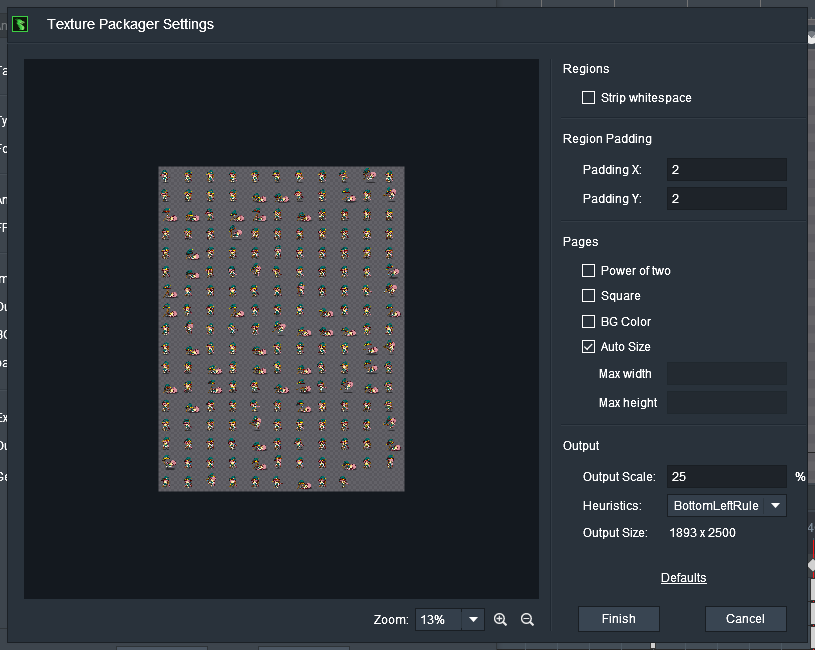
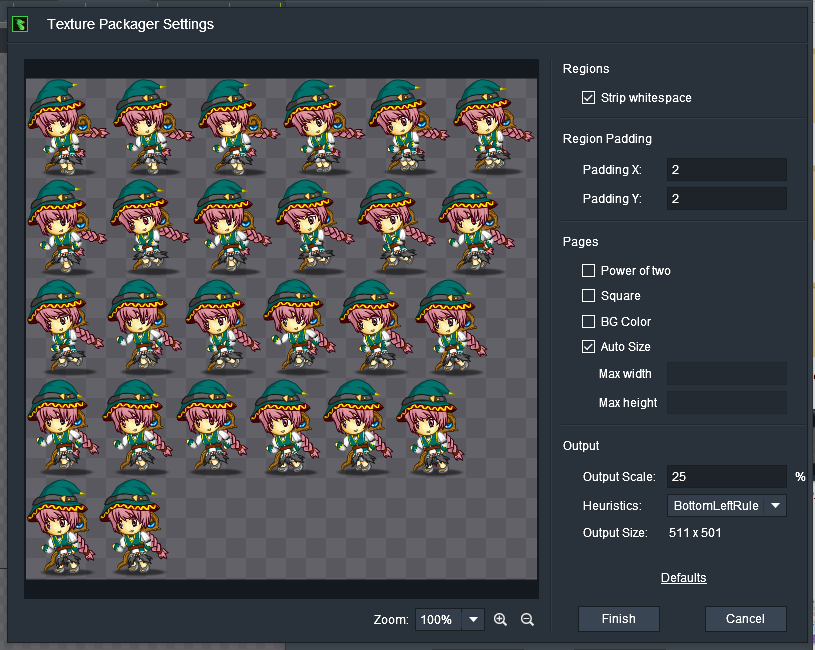
update new anims system (incomplete)

diff --git a/SonOfRobin.Core/Game/Scenes/AnimEditor.cs b/SonOfRobin.Core/Game/Scenes/AnimEditor.cs
@@ -10,6 +10,8 @@ namespace SonOfRobin
 {
     public class AnimEditor : Scene
     {
+        private const float baseScale = 1f; // 0.5f
+
         private readonly SpriteFontBase font;
         private readonly AnimPkg[] animPkgArray;
         private Anim CurrentAnim { get { return this.currentAnimPkg.AllAnimList[this.currentAnimIndex]; } }
@@ -38,23 +40,25 @@ namespace SonOfRobin
         public AnimEditor() : base(inputType: InputTypes.Normal, priority: 1, blocksUpdatesBelow: false, blocksDrawsBelow: false, alwaysUpdates: false, alwaysDraws: false, touchLayout: TouchLayout.Empty, tipsLayout: ControlTips.TipsLayout.Empty)
         {
             this.font = SonOfRobinGame.FontPressStart2P.GetFont(8 * 1);
-            this.pos = new Vector2(80, 80);
+            this.pos = new Vector2(80, 110);
             this.rot = 0f;
-            this.showColRect = true;
+            this.showColRect = false;
             this.showGfxRect = true;
             this.showEffect = false;
             this.outlineThickness = 1;
 
-
-
-
             var animPkgList = new List<AnimPkg> { };
 
             string[] jsonNameArray = new string[] {
-                            "female_mage_tex_test.json",
+                            "female_mage_tex_attack_cropped.json",
+                            "female_mage_tex_damage_cropped.json",
+                            "female_mage_tex_dead_cropped.json",
+                            "female_mage_tex_stand_cropped.json",
+                            "female_mage_tex_walk_cropped.json",
+                            "female_mage_tex_weak_cropped.json",
                         };
 
-            var durationDict = new Dictionary<string, short>
+            var durationDict = new Dictionary<string, int>
                         {
                             { "stand", 3 },
                             { "weak", 3 },
@@ -72,7 +76,7 @@ namespace SonOfRobin
                             { "walk-right", new Vector2(-6, -8) },
             };
 
-            animPkgList.Add(AnimPkg.MakePackageForDragonBonesAnims(pkgName: AnimData.PkgName.DragonBonesTestFemaleMage, colWidth: 50, colHeight: 30, jsonNameArray: jsonNameArray, animSize: 0, scale: 0.5f, baseAnimsFaceRight: false, durationDict: durationDict, nonLoopedAnims: nonLoopedAnims, offsetDict: offsetDict));
+            animPkgList.Add(AnimPkg.MakePackageForDragonBonesAnims(pkgName: AnimData.PkgName.DragonBonesTestFemaleMage, colWidth: 50, colHeight: 30, jsonNameArray: jsonNameArray, animSize: 0, scale: 1.0f, baseAnimsFaceRight: false, durationDict: durationDict, nonLoopedAnims: nonLoopedAnims, offsetDict: offsetDict)); // scale: 0.5f
 
 
 
@@ -126,8 +130,8 @@ namespace SonOfRobin
             this.AssignCurrentAnim();
             this.UpdateRects();
 
-            this.viewParams.ScaleX = 0.5f;
-            this.viewParams.ScaleY = 0.5f;
+            this.viewParams.ScaleX = baseScale;
+            this.viewParams.ScaleY = baseScale;
 
             this.effect = SonOfRobinGame.ContentMgr.Load<Effect>("effects/Border");
         }
@@ -169,8 +173,8 @@ namespace SonOfRobin
             }
             if (Keyboard.IsPressed(Keys.H))
             {
-                this.viewParams.ScaleX = 0.5f;
-                this.viewParams.ScaleY = 0.5f;
+                this.viewParams.ScaleX = baseScale;
+                this.viewParams.ScaleY = baseScale;
             }
 
             bool animPkgIndexChanged = false;

diff --git a/SonOfRobin.Core/Game/_AnimWiP/AnimPkg.cs b/SonOfRobin.Core/Game/_AnimWiP/AnimPkg.cs
@@ -210,7 +210,7 @@ namespace SonOfRobin
             return animPkg;
         }
 
-        public static AnimPkg MakePackageForDragonBonesAnims(AnimData.PkgName pkgName, int colWidth, int colHeight, string[] jsonNameArray, int animSize, float scale, bool baseAnimsFaceRight, Dictionary<string, short> durationDict, string[] nonLoopedAnims, Dictionary<string, Vector2> offsetDict)
+        public static AnimPkg MakePackageForDragonBonesAnims(AnimData.PkgName pkgName, int colWidth, int colHeight, string[] jsonNameArray, int animSize, float scale, bool baseAnimsFaceRight, Dictionary<string, int> durationDict, string[] nonLoopedAnims, Dictionary<string, Vector2> offsetDict)
         {
             AnimPkg animPkg = new(pkgName: pkgName, colWidth: colWidth, colHeight: colHeight);
 
@@ -232,7 +232,7 @@ namespace SonOfRobin
                     int frameNoIndex = underscoreIndex + 1;
 
                     string baseAnimName = name.Substring(0, underscoreIndex);
-                    short duration = durationDict.ContainsKey(baseAnimName) ? durationDict[baseAnimName] : (short)1;
+                    int duration = durationDict.ContainsKey(baseAnimName) ? durationDict[baseAnimName] : 1;
                     int frameNo = Convert.ToInt32(name.Substring(frameNoIndex, name.Length - frameNoIndex));
 
                     int x = (int)animData["x"];
@@ -241,16 +241,24 @@ namespace SonOfRobin
                     int height = (int)animData["height"];
                     int frameX = (int)animData["frameX"];
                     int frameY = (int)animData["frameY"];
+                    int fullWidth = (int)animData["frameWidth"];
+                    int fullHeight = (int)animData["frameHeight"];
 
                     foreach (string direction in new string[] { "right", "left" })
                     {
                         string animNameWithDirection = $"{baseAnimName}-{direction}";
                         if (!animDict.ContainsKey(animNameWithDirection)) animDict[animNameWithDirection] = [];
 
-                        Vector2 gfxOffsetCorrection = new(frameX, frameY);
+                        bool mirrorX = (direction == "left" && baseAnimsFaceRight) || (direction == "right" && !baseAnimsFaceRight);
+
+                        Vector2 gfxOffsetCorrection = new(mirrorX ? -frameX : frameX, frameY);
                         if (offsetDict.ContainsKey(animNameWithDirection)) gfxOffsetCorrection += offsetDict[animNameWithDirection];
 
-                        AnimFrameNew animFrame = new AnimFrameNew(atlasName: atlasName, layer: 1, cropRect: new Rectangle(x: x, y: y, width: width, height: height), duration: duration, scale: scale, gfxOffsetCorrection: gfxOffsetCorrection, mirrorX: direction == "left" ? baseAnimsFaceRight : !baseAnimsFaceRight);
+                        gfxOffsetCorrection = Vector2.Zero;
+
+                        gfxOffsetCorrection += new Vector2(fullWidth - width, fullHeight - height) / 2f;
+
+                        AnimFrameNew animFrame = new AnimFrameNew(atlasName: atlasName, layer: 1, cropRect: new Rectangle(x: x, y: y, width: width, height: height), duration: duration, scale: scale, gfxOffsetCorrection: gfxOffsetCorrection, mirrorX: mirrorX);
 
                         animDict[animNameWithDirection][frameNo] = animFrame;
                     }
